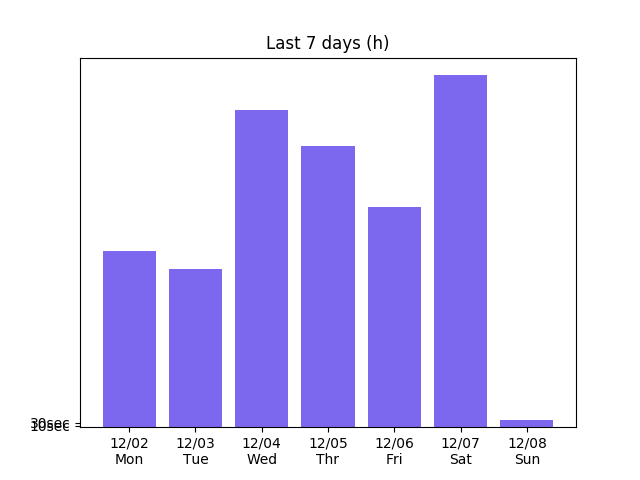
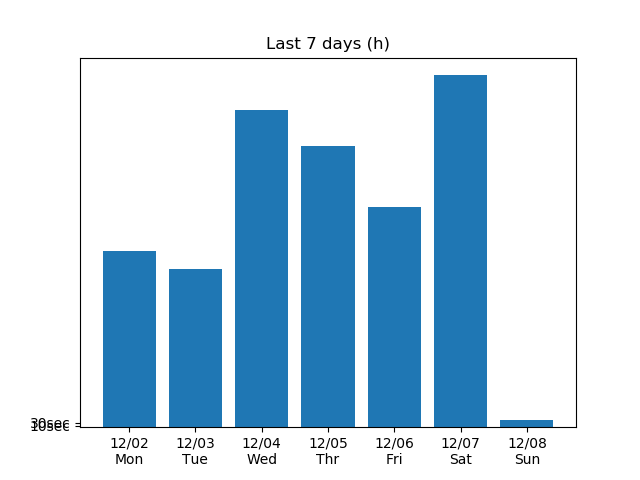
Add overview graphs, edit overview graph

diff --git a/index.html b/index.html
@@ -51,12 +51,22 @@
             <div id="graph">
                 <img src="https://github.com/emscb/Sleeptionary/blob/master/Web/images/overview.png?raw=true">
             </div>
-            <div id="suitable">
-                <div id="tm">
-                    평균 온도 : <span id="temperature"></span>˚C
+            <div id="tm">
+                <div class="graph">
+                    <img src="./Web/images/overview_tm.png" width="430px">
                 </div>
-                <div id="hd">
-                    평균 습도 : <span id="humidity"></span>%
+                <div class="recommend">
+                    <h2>추천 온도</h2>
+                    <span id="temperature"></span>˚C
+                </div>
+            </div>
+            <div id="hd">
+                <div class="graph">
+                    <img src="./Web/images/overview_hd.png" width="430px">
+                </div>
+                <div class="recommend">
+                    <h2>추천 습도</h2>
+                    <span id="humidity"></span>%
                 </div>
             </div>
         </div>

diff --git a/Web/script.js b/Web/script.js
@@ -1,6 +1,6 @@
 function readFile() {
     var client = new XMLHttpRequest();
-    client.open('GET', './data.txt');
+    client.open('GET', 'https://raw.githubusercontent.com/headring/Sleeptionary/master/Web/data.txt');
     client.onreadystatechange = function() {
         if (client.responseText != '') {
             var txt = client.responseText.split('\n');
@@ -14,7 +14,7 @@ function readFile() {
             document.getElementById("temperature").innerHTML = txt[7];
             document.getElementById("humidity").innerHTML = txt[8];
         }
-    }
+    };
     client.send();
 }
 function setDate() {

diff --git a/Web/style.css b/Web/style.css
@@ -12,7 +12,7 @@ h1 {
 }
 #grid {
     display: grid;
-    grid-template-columns: 150px 850px 1fr;
+    grid-template-columns: 150px 850px 450px 450px 1fr;
     border-bottom: solid 1px gray;
 }
 body {
@@ -28,7 +28,7 @@ body {
 #tm, #hd {
     text-align: center;
     background-color: wheat;
-    height: 50%;
+    padding: 10px;
 }
 #grid .record {
     border-right: 1px solid gray;
@@ -37,4 +37,7 @@ body {
 #grid ul {
     padding: 20px;
     padding-left: 33px;
+}
+#tm .recommend {
+    line-height: 50px;
 }

diff --git a/Data_gathering/dev_main.py b/Data_gathering/dev_main.py
@@ -46,6 +46,7 @@ def lux():
 
     # Convert to lux
     lx = 1285.5 * exp(-0.009 * count)  # 조도값
+    print("%.0flux" % lx)
     query = '''INSERT INTO lux(LX) VALUES(?)'''
 
     return [[lx], query]
@@ -194,12 +195,32 @@ for i in range(7):
         else:
             y_data.append(0)
 
-plt.bar(range(0, 7), y_data, color='#7B68EE')
+plt.bar(xtick, y_data, color='#7B68EE')
 plt.title("Last 7 days (h)")
-plt.xticks(range(0, 7), xtick)
-plt.yticks([1/360, 1/120], ["10sec", "30sec"])
+plt.yticks([1/6, 1/2], ["10min", "30min"])
 plt.savefig("../Web/images/overview.png")
-plt.show()
+plt.close()
+
+xtick = []
+seven_days_tm = []
+seven_days_hd = []
+c2 = c.execute('''SELECT Date, TM_avg, HD_avg FROM Sleeptionary ORDER BY Date DESC LIMIT 7''')
+for s in c2:
+    xtick.append(list(s)[0][5:])
+    seven_days_tm.append(list(s)[1])
+    seven_days_hd.append(list(s)[2])
+
+# 최근 7일 간의 온도 그래프
+plt.plot(xtick[::-1], seven_days_tm[::-1], marker="o", color="red")
+plt.yticks([20, 23, 25, 28])
+plt.title("Last 7 days' Average Temperature (Celsius)")
+plt.savefig("../Web/images/overview_tm.png")
+plt.close()
+
+# 최근 7일 간의 습도 그래프
+plt.plot(xtick[::-1], seven_days_hd[::-1], marker="o", color="blue")
+plt.title("Last 7 days' Average Humidity (%)")
+plt.savefig("../Web/images/overview_hd.png")
 plt.close()
 
 # 페이지에 필요한 데이터 저장
@@ -208,8 +229,8 @@ f = open("../Web/data.txt", 'w')
 for i in range(7):
     t = time.localtime(time.time() - 86400 * (7 - i))
     f.write("%04d/%02d/%02d\n" % (t.tm_year, t.tm_mon, t.tm_mday))
-f.write("%.2f\n" % recommend_TM_HD[0])
-f.write("%.2f\n" % recommend_TM_HD[1])
+f.write("%.0f\n" % recommend_TM_HD[0])
+f.write("%.0f\n" % recommend_TM_HD[1])
 
 f.close()
 conn.close()

diff --git a/Data_gathering/graph.py b/Data_gathering/graph.py
@@ -35,13 +35,33 @@ for i in range(7):
         else:
             y_data.append(0)
 
-plt.bar(range(0, 7), y_data)
+plt.bar(xtick, y_data)
 plt.title("Last 7 days (h)")
-plt.xticks(range(0, 7), xtick)
-plt.yticks([5])
-# yticks(sort(y_data))
-plt.savefig("../Web/images/overview.png")
+plt.yticks([1/6, 1/2], ["10min", "30min"])
+# plt.savefig("../Web/images/overview.png")
 plt.show()
 plt.close()
 
-# TODO 수면 시간 미리 입력받아서 그 라인 쭉 그어주기
+xtick = []
+seven_days_tm = []
+seven_days_hd = []
+c2 = c.execute('''SELECT Date, TM_avg, HD_avg FROM Sleeptionary ORDER BY Date DESC LIMIT 7''')
+for s in c2:
+    xtick.append(list(s)[0][5:])
+    seven_days_tm.append(list(s)[1])
+    seven_days_hd.append(list(s)[2])
+
+# 최근 7일 간의 온도 그래프
+plt.plot(xtick[::-1], seven_days_tm[::-1], marker="o", color="red")
+plt.yticks([20, 23, 25, 28])
+# plt.grid(True)
+plt.title("Last 7 days' Average Temperature (Celsius)")
+plt.savefig("../Web/images/overview_tm.png")
+plt.show()
+plt.close()
+
+plt.plot(xtick[::-1], seven_days_hd[::-1], marker="o", color="blue")
+plt.title("Last 7 days' Average Humidity (%)")
+plt.savefig("../Web/images/overview_hd.png")
+plt.show()
+plt.close()
